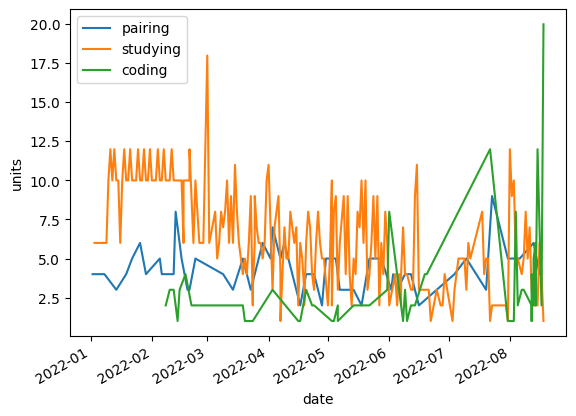
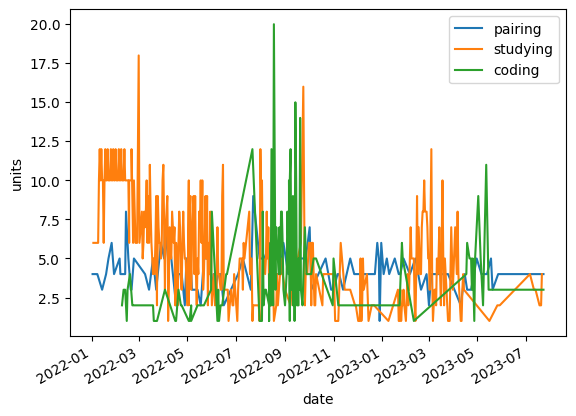
Updated content

Changed region(s): [[0.125, 0.0312, 0.9688, 0.7812], [0.1562, 0.8438, 0.9062, 0.9375], [0.0625, 0.8438, 0.1562, 0.9375]]

diff --git a/README.md b/README.md
@@ -5,4 +5,4 @@ I started studying python on the 2nd of January 2022, since then I recorded all 
 ![graph 1](data/graphs/image_1.png)
 ![graph 2](data/graphs/image_2.png)
 
-Last updated: 2023-07-09
+Last updated: 2023-07-25
